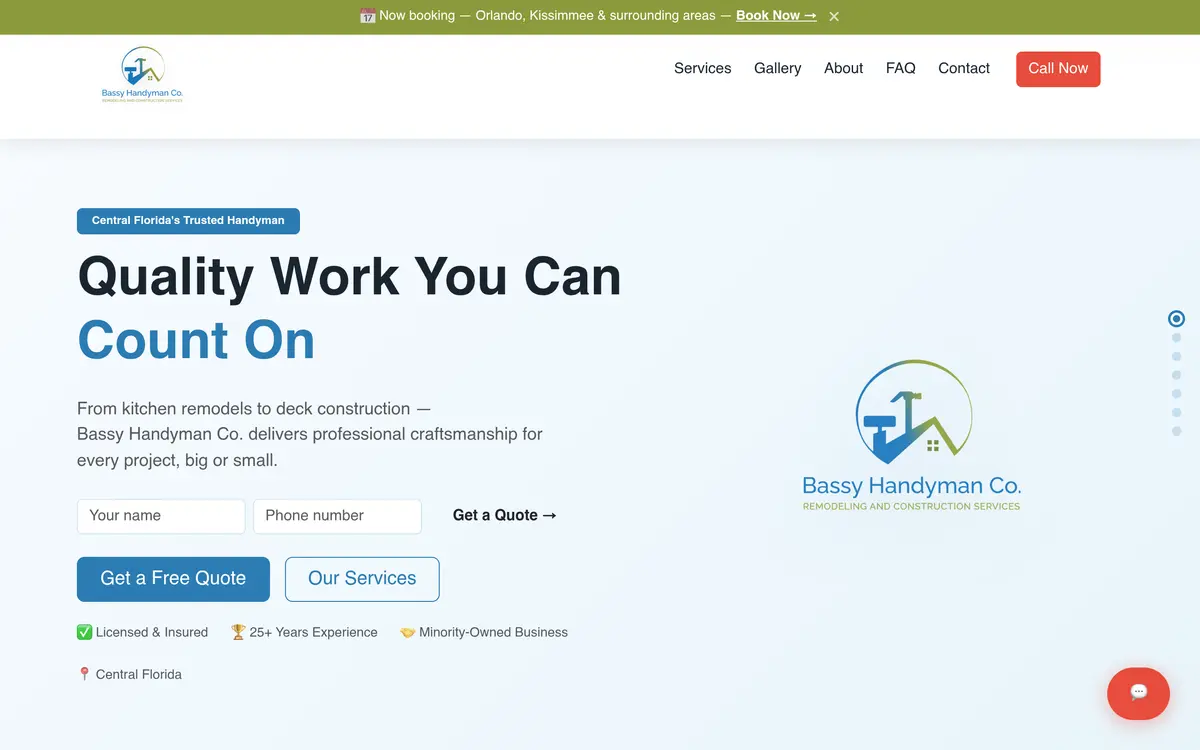
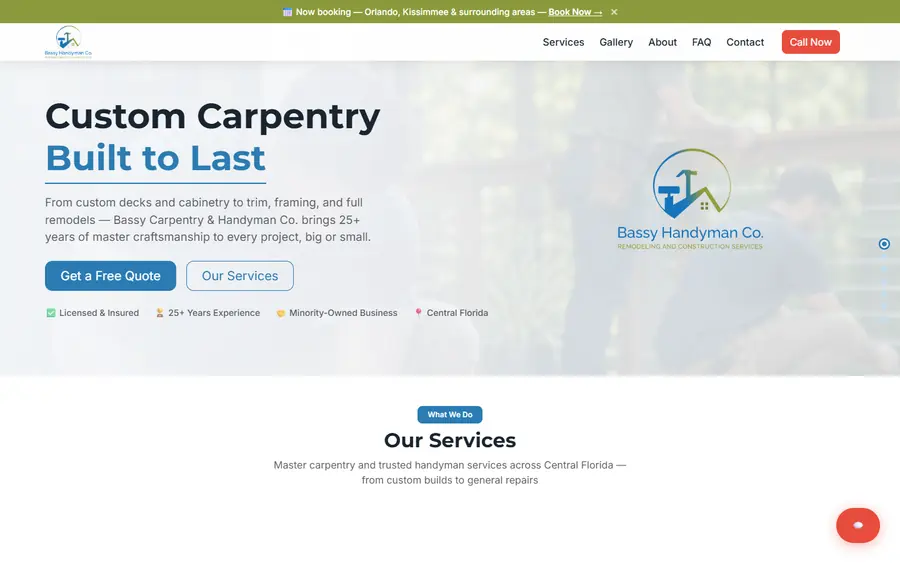
Fix stale portfolio links, add three missing sites, refresh all previews
Links audited against what is actually live:
- Bassy Handyman pointed at its Azure hostname; it has a real domain now
  (bassyhandyman.com, connected today)
- LABTEQ pointed at its Azure hostname, which 301s; now thelabteq.org
- Bryant's apex 301s to www, so it links the destination directly

Three live client sites were never listed at all: I Honore Realty, The 924
Project and HubbTech.

All ten previews recaptured from the live sites. Several were badly out of
date after today's work — LABTEQ, Bassy, 924 and I Honore have all had heroes,
navigation or motion reworked since the old screenshots were taken.

diff --git a/src/data/projects.js b/src/data/projects.js
@@ -14,10 +14,34 @@ const projects = [
     status: "in_development",
   },
   {
+    title: "I Honore Realty",
+    desc: "Statewide Florida brokerage site in four languages with browser auto-detect, per-agent profiles and direct contact routing, live MLS-ready listings with filtering and a Zillow-style detail modal, mortgage calculator, and home valuation.",
+    tags: ["Firebase", "i18n", "MLS/IDX", "GitHub Actions"],
+    url: "https://ihonorerealty.com",
+    preview: "/previews/i-honore-realty.webp",
+    status: "live",
+  },
+  {
+    title: "The 924 Project",
+    desc: "Nonprofit site for a community empowerment organization — programs, board and leadership profiles, event calendar, and a volunteer intake form writing to Firestore with validated, locked-down security rules.",
+    tags: ["React 19", "Firebase", "Firestore", "Bootstrap 5"],
+    url: "https://924project.org",
+    preview: "/previews/924-project.webp",
+    status: "live",
+  },
+  {
+    title: "HubbTech",
+    desc: "Part 107 licensed drone photography and video studio in Montgomery, Alabama. Portfolio-led site with service breakdown and booking enquiry flow.",
+    tags: ["React", "Firebase Hosting", "Responsive"],
+    url: "https://hubbtech.web.app",
+    preview: "/previews/hubbtech.webp",
+    status: "live",
+  },
+  {
     title: "Bassy Handyman Co.",
     desc: "Full-service handyman website with contact form, gallery, before/after slider, and Google Analytics.",
     tags: ["React 19", "Bootstrap 5", "EmailJS", "Azure"],
-    url: "https://black-grass-0bd5c040f.6.azurestaticapps.net",
+    url: "https://bassyhandyman.com",
     preview: "/previews/bassy-handyman.webp",
     status: "live",
   },
@@ -33,7 +57,7 @@ const projects = [
     title: "Bryant's Lawn Care Services LLC",
     desc: "Editorial redesign for an Eastern NC lawn care business. Custom Patagonia-style visual identity, accordion service catalog, before/after sliders, verified HomeAdvisor testimonials, SEO foundation, and Google Maps service area. Deployed on Azure with GitHub Actions CI/CD.",
     tags: ["React 19", "Bootstrap 5", "SCSS", "Azure SWA", "SEO"],
-    url: "https://bryantslawncare.org",
+    url: "https://www.bryantslawncare.org",
     preview: "/previews/bryants-lawn-care.webp",
     status: "live",
   },
@@ -41,7 +65,7 @@ const projects = [
     title: "LABTEQ",
     desc: "E-commerce storefront for a science-inspired apparel and merch brand — product catalog with detail modals, cart, and custom loading experience.",
     tags: ["JavaScript", "E-commerce", "Azure SWA"],
-    url: "https://orange-grass-0b7eaf20f.2.azurestaticapps.net",
+    url: "https://thelabteq.org",
     preview: "/previews/labteq.webp",
     status: "live",
   },
